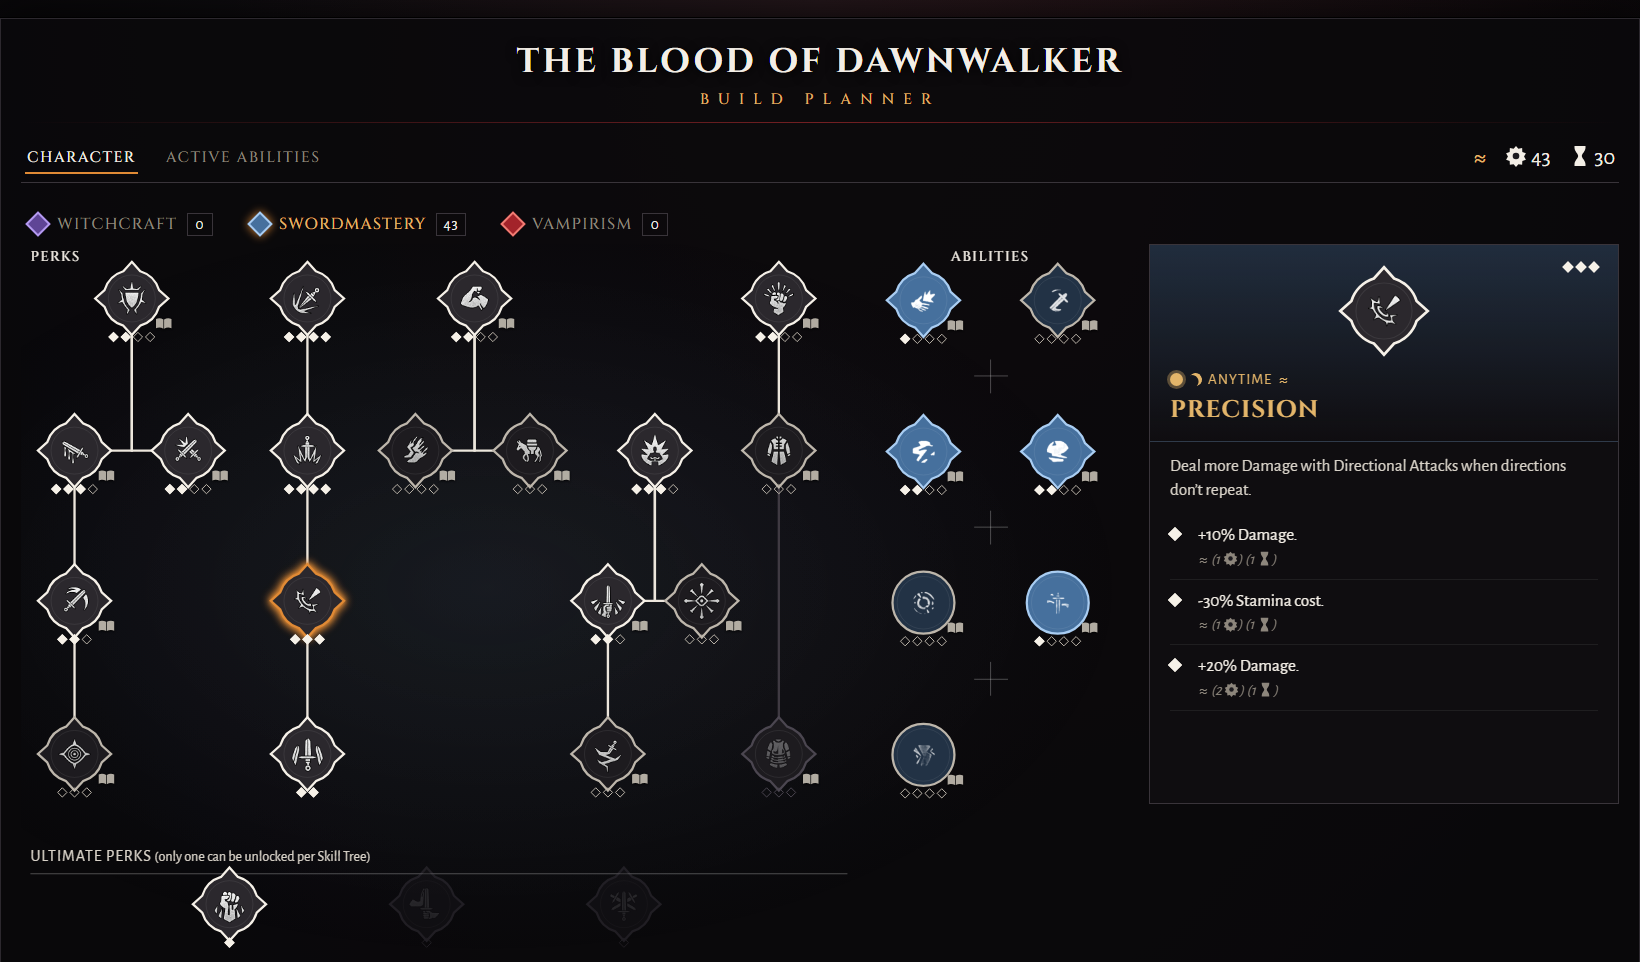
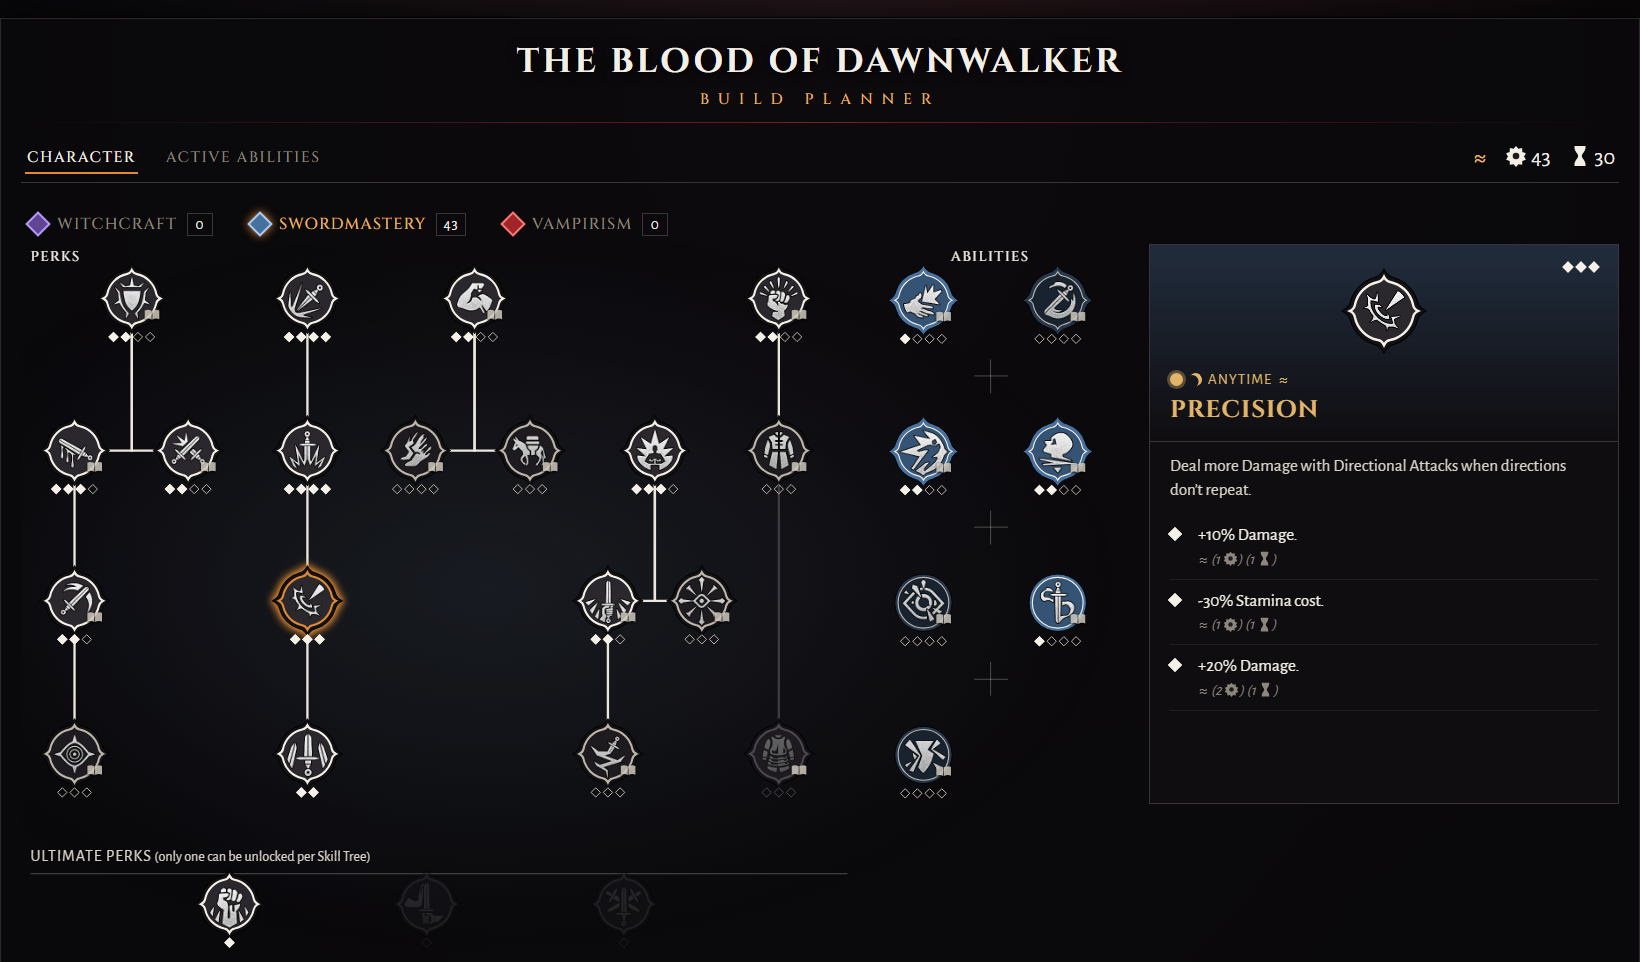
Draw the nodes in the game's proportions

diff --git a/src/styles/nodes.css b/src/styles/nodes.css
@@ -18,24 +18,25 @@
   overflow: visible;
 }
 
-.frame-edge {
-  fill: var(--node-fill);
-  stroke: var(--edge-locked);
-  stroke-width: 2.4;
-}
-
-.frame-inner {
-  fill: none;
-  stroke: rgba(255, 255, 255, 0.08);
+.frame-plate {
+  fill: #121113;
+  stroke: #000;
   stroke-width: 1;
 }
 
+.frame-edge {
+  fill: var(--node-fill);
+  stroke: var(--edge-locked);
+  stroke-width: 2.2;
+}
+
+/* The game draws its 128 px icons 60 px wide on a 1080p screen. */
 .glyph {
   position: absolute;
   top: 50%;
   left: 50%;
-  width: 56%;
-  height: 56%;
+  width: 73%;
+  height: 73%;
   transform: translate(-50%, -50%);
   pointer-events: none;
 }
@@ -105,27 +106,35 @@
 
 .manual {
   position: absolute;
-  right: -2px;
-  bottom: 8px;
-  width: 18px;
+  right: 11px;
+  bottom: 17px;
+  width: 17px;
   fill: #cfc8bc;
   opacity: 0.85;
   filter: drop-shadow(0 1px 1px #000);
 }
 
-/* Abilities wear the colour of their tree, dimmed until learned. */
+/* Abilities wear the colour of their tree, dimmed until learned: a band around a darker disc. */
+.ability .frame-plate {
+  fill: color-mix(in srgb, var(--tree-fill) 45%, #0a090b);
+}
+
 .ability .frame-edge {
-  fill: color-mix(in srgb, var(--tree-fill) 40%, #0a090b);
-  stroke: color-mix(in srgb, var(--tree-edge) 40%, #0a090b);
+  fill: color-mix(in srgb, var(--tree-fill) 25%, #0a090b);
+  stroke: #0a090b;
+  stroke-width: 1.2;
 }
 
 .ability .glyph {
   opacity: 0.5;
 }
 
-.ability.learned .frame-edge {
+.ability.learned .frame-plate {
   fill: var(--tree-fill);
-  stroke: var(--tree-edge);
+}
+
+.ability.learned .frame-edge {
+  fill: color-mix(in srgb, var(--tree-fill) 72%, #0a090b);
 }
 
 .ability.learned .glyph {
@@ -144,12 +153,22 @@
   height: 100%;
 }
 
-.ability-icon .frame-edge {
+.ability-icon .frame-plate {
   fill: var(--tree-fill);
-  stroke: var(--tree-edge);
+}
+
+.ability-icon .frame-edge {
+  fill: color-mix(in srgb, var(--tree-fill) 72%, #0a090b);
+  stroke: #0a090b;
+  stroke-width: 1.2;
+}
+
+.ability-icon.empty .frame-plate {
+  fill: #121113;
 }
 
 .ability-icon.empty .frame-edge {
   fill: var(--node-fill);
   stroke: var(--edge-locked);
+  stroke-width: 2.2;
 }

diff --git a/src/planner/node-frame.tsx b/src/planner/node-frame.tsx
@@ -1,11 +1,27 @@
 import type { JSX } from 'react';
 
-// A circle with a point at each quarter, the frame of perks and of active abilities in the game.
-const ROSETTE =
-  'M0,-39 L9,-29 A30,30 0 0 1 29,-9 L39,0 L29,9 A30,30 0 0 1 9,29 L0,39 L-9,29 A30,30 0 0 1 -29,9 L-39,0 L-29,-9 A30,30 0 0 1 -9,-29 Z';
+// A circle with a cusped tip on each axis, the shape of perks and of active abilities in the game.
+function rosette(radius: number, tip: number, spread: number): string {
+  const at = (r: number, degrees: number): string => {
+    const angle = (degrees * Math.PI) / 180;
+    return `${(r * Math.cos(angle)).toFixed(2)},${(r * Math.sin(angle)).toFixed(2)}`;
+  };
+  const pull = spread * 0.35;
+  let path = `M${at(tip, -90)}`;
+  for (const axis of [-90, 0, 90, 180]) {
+    path += `Q${at(radius, axis + pull)} ${at(radius, axis + spread)}`;
+    path += `A${String(radius)},${String(radius)} 0 0 1 ${at(radius, axis + 90 - spread)}`;
+    path += `Q${at(radius, axis + 90 - pull)} ${at(tip, axis + 90)}`;
+  }
+  return `${path}Z`;
+}
+
+// Measured on the game's 1080p screen: a dark plate with long tips under a ring with short ones.
+const PLATE = rosette(31, 37.5, 17);
+const RING = rosette(26.5, 30.5, 12);
 
 type NodeFrameProps = {
-  // Passive abilities sit in a plain disc instead of the pointed frame.
+  // Passive abilities sit in plain circles instead of the pointed frame.
   readonly shape: 'rosette' | 'disc';
 };
 
@@ -13,11 +29,16 @@ export function NodeFrame({ shape }: NodeFrameProps): JSX.Element {
   return (
     <svg className="frame" viewBox="-41 -41 82 82" aria-hidden="true">
       {shape === 'rosette' ? (
-        <path className="frame-edge" d={ROSETTE} />
+        <>
+          <path className="frame-plate" d={PLATE} />
+          <path className="frame-edge" d={RING} />
+        </>
       ) : (
-        <circle className="frame-edge" r="33" />
+        <>
+          <circle className="frame-plate" r="30.5" />
+          <circle className="frame-edge" r="27" />
+        </>
       )}
-      <circle className="frame-inner" r={shape === 'rosette' ? 25 : 28} />
     </svg>
   );
 }
